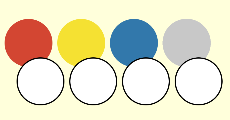
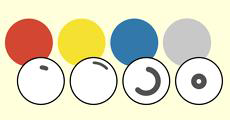
Sketch One - rings/orbit glyph

diff --git a/README.md b/README.md
@@ -2,11 +2,6 @@
 
 ### Color Glyphs
 
-Describe your black and white shapes that
-are meant to represent the colors above them (replacing this text).
-Be sure to use complete sentences, and you can reference your 
-image above. The explanation should be short but compete,
-roughly [100 words](https://wordcounter.net/).
+I have 3 sketches to begin this project, with each one interpreting the colour in a different way, the first sketch is seen below. 
 
-Also update both images keeping their original sizes:
-preview.jpg (960x500) and thumbnail.png (230x120).
+This sketch takes the Hue value and interpreted it as an angle, this angle is then used to determine the length of an arc around a circle. The radius of this circle is determined by the saturation of the colour, so a colour with no saturation will appear as a dot. Lastly the stroke of the arc is determined by the lightness value, so that darker colours use a thicker stroke, which in turn should give the glyph a darker appearance.
